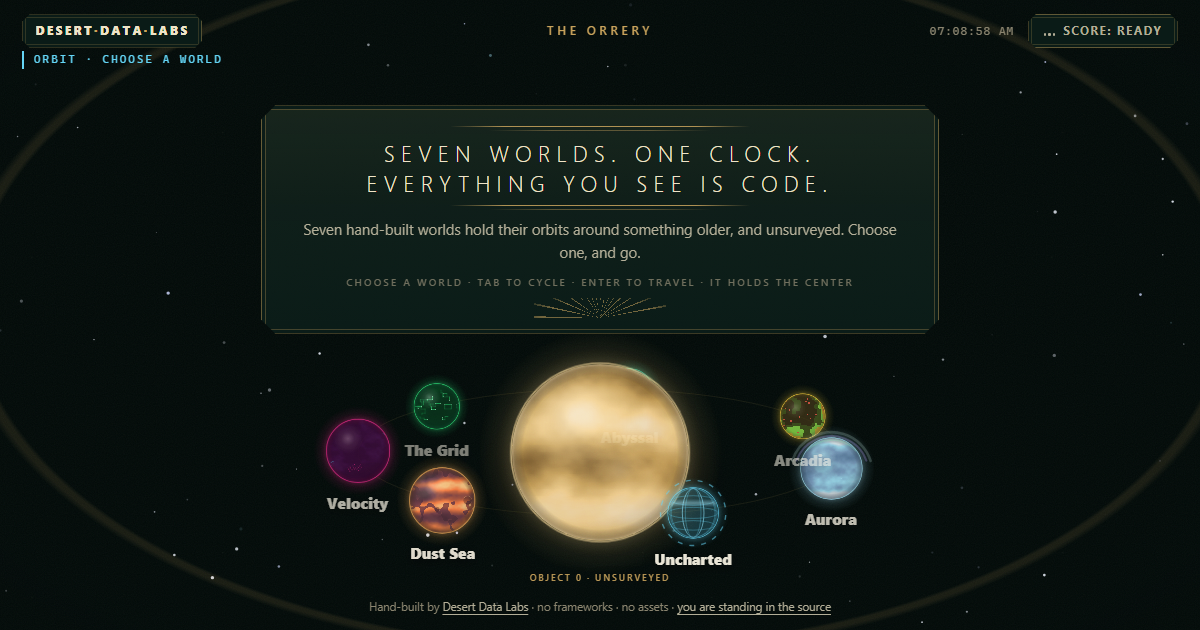
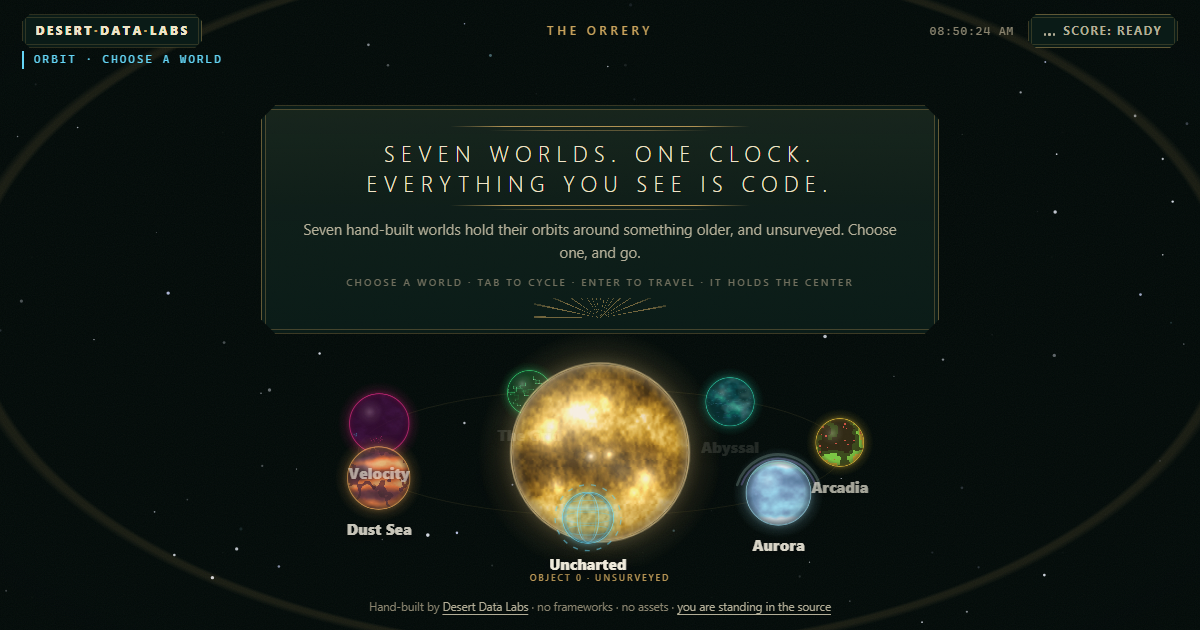
SphereForge: the reference-gold pass
Match the hammered molten-gold reference: deep-contrast LUT (near-black
amber pools to near-white crests), mid-frequency mottling + frosted
hammered micro-grain at 768x288 (near-1:1 texel:pixel at hub scale),
and a 9-spot specular constellation pinned to the light while the metal
flows beneath: additive-blend blown cores, per-spot breathing, rare 2.4s
flares, whole-constellation lift during ripples. globalAlpha clamped
(canvas silently ignores >1 assignments). og-card re-shot.

Changed region(s): [[0.2467, 0.573, 0.74, 0.9048]]

diff --git a/index.html b/index.html
@@ -2447,14 +2447,17 @@ const PlanetForge = (() => {
    with no wrap seam; 24 fixed slices each take a per-frame sine
    x-nudge — the molten-skin illusion. Everything else is prebaked
    sprites. Zero external assets. No text in canvas. All original.
-   Per-frame cost: 24 slice blits + <=7 sprite blits + <=4 ring
-   strokes; zero allocations, zero gradient creation.
+   Per-frame cost: 24 slice blits + <=16 sprite blits (shading,
+   glosses, wanderer, 9-spot constellation) + <=4 ring strokes;
+   zero allocations, zero gradient creation.
    ============================================================ */
 'use strict';
 
 const SphereForge = (() => {
   const TAU = Math.PI * 2;
-  const TEX_W = 512, TEX_H = 256;          /* gen size; baked doubled to 1024 */
+  const TEX_W = 768, TEX_H = 288;          /* gen size; baked doubled to 1536 —
+                                              near-1:1 texel:pixel at hub R, so the
+                                              hammered grain stays CRISP (metal, not cloud) */
   const NS = 24;                           /* fixed slice count */
   const RIM_S = 224, RIM_PR = 80;          /* rim sprite canvas / baked radius */
   const RIM_DRAW = RIM_S / RIM_PR;         /* drawn rim size = R * 2.8 */
@@ -2531,14 +2534,18 @@ const SphereForge = (() => {
   /* ---------- prebaked assets ---------- */
   let baseTex = null, flowTex = null;
   let limbSpr = null, glossTL = null, glossBR = null, wanderSpr = null;
-  let pulseSpr = null, rimSpr = null, shadowSpr = null;
+  let pulseSpr = null, rimSpr = null, shadowSpr = null, hotSpr = null;
+  const hots = [];                         /* the specular constellation (seeded at init) */
   let su = 0.5, frozenT = 60000;           /* the seeded reduced-motion pose */
   let inited = false;
 
   function buildBase(rnd) {
     const c = cv(TEX_W, TEX_H), t = c.getContext('2d');
     const fb = makeFbm(rnd, 6, 4, 4), warp = makeFbm(rnd, 3, 2, 3);
-    const L = makeLut([[0, '#4a2f10'], [0.42, '#c9a35c'], [0.75, '#ffdf9e'], [1, '#fff3d6']]);
+    const mid = makeFbm(rnd, 14, 8, 3);      /* mottling between the big forms */
+    const micro = makeFbm(rnd, 84, 32, 2);   /* the hammered-foil grain (reference match) */
+    /* deep-contrast gold LUT: near-black amber pools up to near-white blooms */
+    const L = makeLut([[0, '#2a1a05'], [0.32, '#7d5511'], [0.6, '#d3a02a'], [0.84, '#ffdd75'], [1, '#fffbe8']]);
     const img = t.createImageData(TEX_W, TEX_H); const d = img.data; let i = 0;
     for (let yy = 0; yy < TEX_H; yy++) {
       const v = yy / TEX_H;
@@ -2546,8 +2553,9 @@ const SphereForge = (() => {
         const u = xx / TEX_W;
         /* molten banding: horizontal bands bent by wrapped noise + a wrapped u-swell */
         const band = 0.5 + 0.5 * Math.sin(v * 14.5 + warp(u, v) * 4.6 + Math.sin(u * TAU) * 0.9);
-        let n = fb(u, v) * 0.58 + band * 0.42;
-        n = (n - 0.5) * 1.35 + 0.56;       /* stretch + lift into the gold */
+        let n = fb(u, v) * 0.46 + band * 0.28 + mid(u, v) * 0.26;
+        n += (micro(u, v) - 0.5) * 0.26;     /* frosted micro-texture riding the flow */
+        n = (n - 0.5) * 1.7 + 0.47;          /* hard stretch, low lift: real dark pools */
         if (n < 0) n = 0; else if (n > 1) n = 1;
         const k3 = ((n * 255) | 0) * 3;
         d[i++] = L[k3]; d[i++] = L[k3 + 1]; d[i++] = L[k3 + 2]; d[i++] = 255;
@@ -2661,6 +2669,17 @@ const SphereForge = (() => {
     gr.addColorStop(1, 'rgba(2,8,7,0)');
     g.fillStyle = gr; g.fillRect(0, 0, 128, 128);
     shadowSpr = c;
+
+    /* one hotspot bloom: a BLOWN core like the reference's studio-light
+       reflections (drawn 9x at seeded positions; screen blend does the rest) */
+    c = cv(96, 96); g = c.getContext('2d');
+    gr = g.createRadialGradient(48, 48, 2, 48, 48, 46);
+    gr.addColorStop(0, 'rgba(255,254,246,1)');
+    gr.addColorStop(0.14, 'rgba(255,250,226,0.62)');
+    gr.addColorStop(0.4, 'rgba(255,240,190,0.18)');
+    gr.addColorStop(1, 'rgba(255,236,180,0)');
+    g.fillStyle = gr; g.fillRect(0, 0, 96, 96);
+    hotSpr = c;
   }
 
   /* ---------- runtime state (pooled; no per-frame allocation) ---------- */
@@ -2677,6 +2696,20 @@ const SphereForge = (() => {
       baseTex = buildBase(rnd);
       flowTex = buildFlow(rnd);
       buildSprites();
+      /* the constellation: 9 reflections pinned to the LIGHT, not the skin —
+         each breathes on its own clock; each rarely FLARES, like something
+         bright moving under the surface */
+      hots.length = 0;
+      for (let i = 0; i < 9; i++) {
+        const ha = rnd() * TAU, hr = Math.sqrt(rnd()) * 0.72;
+        hots.push({
+          x: Math.cos(ha) * hr, y: Math.sin(ha) * hr,
+          r: 0.16 + rnd() * 0.22,          /* bloom size, fraction of R */
+          ph: rnd() * TAU, rate: 0.0002 + rnd() * 0.0003,
+          fi: 18000 + rnd() * 26000,       /* flare interval */
+          fo: rnd() * 44000,               /* flare phase offset */
+        });
+      }
       su = rnd();
       frozenT = 40000 + su * 90000;        /* a sculpted mid-flow pose, seeded */
     },
@@ -2749,6 +2782,30 @@ const SphereForge = (() => {
       g.globalAlpha = 0.55;
       g.drawImage(glossBR, x - R, y - R, D, D);
       g.globalAlpha = 1;
+
+      /* the hotspot constellation: reflections stay pinned while the metal
+         flows beneath them; each breathes, and rarely one FLARES. Additive
+         blend so the cores genuinely BLOW OUT like over-exposed reflections */
+      g.globalCompositeOperation = 'lighter';
+      for (let hI = 0; hI < hots.length; hI++) {
+        const h = hots[hI];
+        let ha2 = reduced2 ? 0.58 : 0.55 + 0.18 * Math.sin(t * h.rate + h.ph);
+        let hs2 = h.r * R * 2;
+        if (!reduced2) {
+          const ft = (t + h.fo) % h.fi;
+          if (ft < 2400) {                 /* the flare: 2.4s, sinusoid in and out */
+            const fe = Math.sin((ft / 2400) * Math.PI);
+            ha2 += fe * 0.45; hs2 *= 1 + 0.3 * fe;
+          }
+        }
+        if (rippling) ha2 += env * 0.2;    /* a disturbance lights the whole constellation */
+        /* MUST clamp: canvas IGNORES globalAlpha > 1 (assignment silently
+           dropped, previous spot's alpha would leak into this one) */
+        g.globalAlpha = ha2 > 1 ? 1 : ha2;
+        g.drawImage(hotSpr, x + h.x * R - hs2 / 2, y + h.y * R - hs2 / 2, hs2, hs2);
+      }
+      g.globalAlpha = 1;
+      g.globalCompositeOperation = 'source-over';
 
       /* the wandering specular: a slow lissajous orbit (parked when reduced) */
       const wa = reduced2 ? su * TAU : t * 0.00016;

diff --git a/src/05c-sphereforge.js b/src/05c-sphereforge.js
@@ -6,14 +6,17 @@
    with no wrap seam; 24 fixed slices each take a per-frame sine
    x-nudge — the molten-skin illusion. Everything else is prebaked
    sprites. Zero external assets. No text in canvas. All original.
-   Per-frame cost: 24 slice blits + <=7 sprite blits + <=4 ring
-   strokes; zero allocations, zero gradient creation.
+   Per-frame cost: 24 slice blits + <=16 sprite blits (shading,
+   glosses, wanderer, 9-spot constellation) + <=4 ring strokes;
+   zero allocations, zero gradient creation.
    ============================================================ */
 'use strict';
 
 const SphereForge = (() => {
   const TAU = Math.PI * 2;
-  const TEX_W = 512, TEX_H = 256;          /* gen size; baked doubled to 1024 */
+  const TEX_W = 768, TEX_H = 288;          /* gen size; baked doubled to 1536 —
+                                              near-1:1 texel:pixel at hub R, so the
+                                              hammered grain stays CRISP (metal, not cloud) */
   const NS = 24;                           /* fixed slice count */
   const RIM_S = 224, RIM_PR = 80;          /* rim sprite canvas / baked radius */
   const RIM_DRAW = RIM_S / RIM_PR;         /* drawn rim size = R * 2.8 */
@@ -90,14 +93,18 @@ const SphereForge = (() => {
   /* ---------- prebaked assets ---------- */
   let baseTex = null, flowTex = null;
   let limbSpr = null, glossTL = null, glossBR = null, wanderSpr = null;
-  let pulseSpr = null, rimSpr = null, shadowSpr = null;
+  let pulseSpr = null, rimSpr = null, shadowSpr = null, hotSpr = null;
+  const hots = [];                         /* the specular constellation (seeded at init) */
   let su = 0.5, frozenT = 60000;           /* the seeded reduced-motion pose */
   let inited = false;
 
   function buildBase(rnd) {
     const c = cv(TEX_W, TEX_H), t = c.getContext('2d');
     const fb = makeFbm(rnd, 6, 4, 4), warp = makeFbm(rnd, 3, 2, 3);
-    const L = makeLut([[0, '#4a2f10'], [0.42, '#c9a35c'], [0.75, '#ffdf9e'], [1, '#fff3d6']]);
+    const mid = makeFbm(rnd, 14, 8, 3);      /* mottling between the big forms */
+    const micro = makeFbm(rnd, 84, 32, 2);   /* the hammered-foil grain (reference match) */
+    /* deep-contrast gold LUT: near-black amber pools up to near-white blooms */
+    const L = makeLut([[0, '#2a1a05'], [0.32, '#7d5511'], [0.6, '#d3a02a'], [0.84, '#ffdd75'], [1, '#fffbe8']]);
     const img = t.createImageData(TEX_W, TEX_H); const d = img.data; let i = 0;
     for (let yy = 0; yy < TEX_H; yy++) {
       const v = yy / TEX_H;
@@ -105,8 +112,9 @@ const SphereForge = (() => {
         const u = xx / TEX_W;
         /* molten banding: horizontal bands bent by wrapped noise + a wrapped u-swell */
         const band = 0.5 + 0.5 * Math.sin(v * 14.5 + warp(u, v) * 4.6 + Math.sin(u * TAU) * 0.9);
-        let n = fb(u, v) * 0.58 + band * 0.42;
-        n = (n - 0.5) * 1.35 + 0.56;       /* stretch + lift into the gold */
+        let n = fb(u, v) * 0.46 + band * 0.28 + mid(u, v) * 0.26;
+        n += (micro(u, v) - 0.5) * 0.26;     /* frosted micro-texture riding the flow */
+        n = (n - 0.5) * 1.7 + 0.47;          /* hard stretch, low lift: real dark pools */
         if (n < 0) n = 0; else if (n > 1) n = 1;
         const k3 = ((n * 255) | 0) * 3;
         d[i++] = L[k3]; d[i++] = L[k3 + 1]; d[i++] = L[k3 + 2]; d[i++] = 255;
@@ -220,6 +228,17 @@ const SphereForge = (() => {
     gr.addColorStop(1, 'rgba(2,8,7,0)');
     g.fillStyle = gr; g.fillRect(0, 0, 128, 128);
     shadowSpr = c;
+
+    /* one hotspot bloom: a BLOWN core like the reference's studio-light
+       reflections (drawn 9x at seeded positions; screen blend does the rest) */
+    c = cv(96, 96); g = c.getContext('2d');
+    gr = g.createRadialGradient(48, 48, 2, 48, 48, 46);
+    gr.addColorStop(0, 'rgba(255,254,246,1)');
+    gr.addColorStop(0.14, 'rgba(255,250,226,0.62)');
+    gr.addColorStop(0.4, 'rgba(255,240,190,0.18)');
+    gr.addColorStop(1, 'rgba(255,236,180,0)');
+    g.fillStyle = gr; g.fillRect(0, 0, 96, 96);
+    hotSpr = c;
   }
 
   /* ---------- runtime state (pooled; no per-frame allocation) ---------- */
@@ -236,6 +255,20 @@ const SphereForge = (() => {
       baseTex = buildBase(rnd);
       flowTex = buildFlow(rnd);
       buildSprites();
+      /* the constellation: 9 reflections pinned to the LIGHT, not the skin —
+         each breathes on its own clock; each rarely FLARES, like something
+         bright moving under the surface */
+      hots.length = 0;
+      for (let i = 0; i < 9; i++) {
+        const ha = rnd() * TAU, hr = Math.sqrt(rnd()) * 0.72;
+        hots.push({
+          x: Math.cos(ha) * hr, y: Math.sin(ha) * hr,
+          r: 0.16 + rnd() * 0.22,          /* bloom size, fraction of R */
+          ph: rnd() * TAU, rate: 0.0002 + rnd() * 0.0003,
+          fi: 18000 + rnd() * 26000,       /* flare interval */
+          fo: rnd() * 44000,               /* flare phase offset */
+        });
+      }
       su = rnd();
       frozenT = 40000 + su * 90000;        /* a sculpted mid-flow pose, seeded */
     },
@@ -308,6 +341,30 @@ const SphereForge = (() => {
       g.globalAlpha = 0.55;
       g.drawImage(glossBR, x - R, y - R, D, D);
       g.globalAlpha = 1;
+
+      /* the hotspot constellation: reflections stay pinned while the metal
+         flows beneath them; each breathes, and rarely one FLARES. Additive
+         blend so the cores genuinely BLOW OUT like over-exposed reflections */
+      g.globalCompositeOperation = 'lighter';
+      for (let hI = 0; hI < hots.length; hI++) {
+        const h = hots[hI];
+        let ha2 = reduced2 ? 0.58 : 0.55 + 0.18 * Math.sin(t * h.rate + h.ph);
+        let hs2 = h.r * R * 2;
+        if (!reduced2) {
+          const ft = (t + h.fo) % h.fi;
+          if (ft < 2400) {                 /* the flare: 2.4s, sinusoid in and out */
+            const fe = Math.sin((ft / 2400) * Math.PI);
+            ha2 += fe * 0.45; hs2 *= 1 + 0.3 * fe;
+          }
+        }
+        if (rippling) ha2 += env * 0.2;    /* a disturbance lights the whole constellation */
+        /* MUST clamp: canvas IGNORES globalAlpha > 1 (assignment silently
+           dropped, previous spot's alpha would leak into this one) */
+        g.globalAlpha = ha2 > 1 ? 1 : ha2;
+        g.drawImage(hotSpr, x + h.x * R - hs2 / 2, y + h.y * R - hs2 / 2, hs2, hs2);
+      }
+      g.globalAlpha = 1;
+      g.globalCompositeOperation = 'source-over';
 
       /* the wandering specular: a slow lissajous orbit (parked when reduced) */
       const wa = reduced2 ? su * TAU : t * 0.00016;
